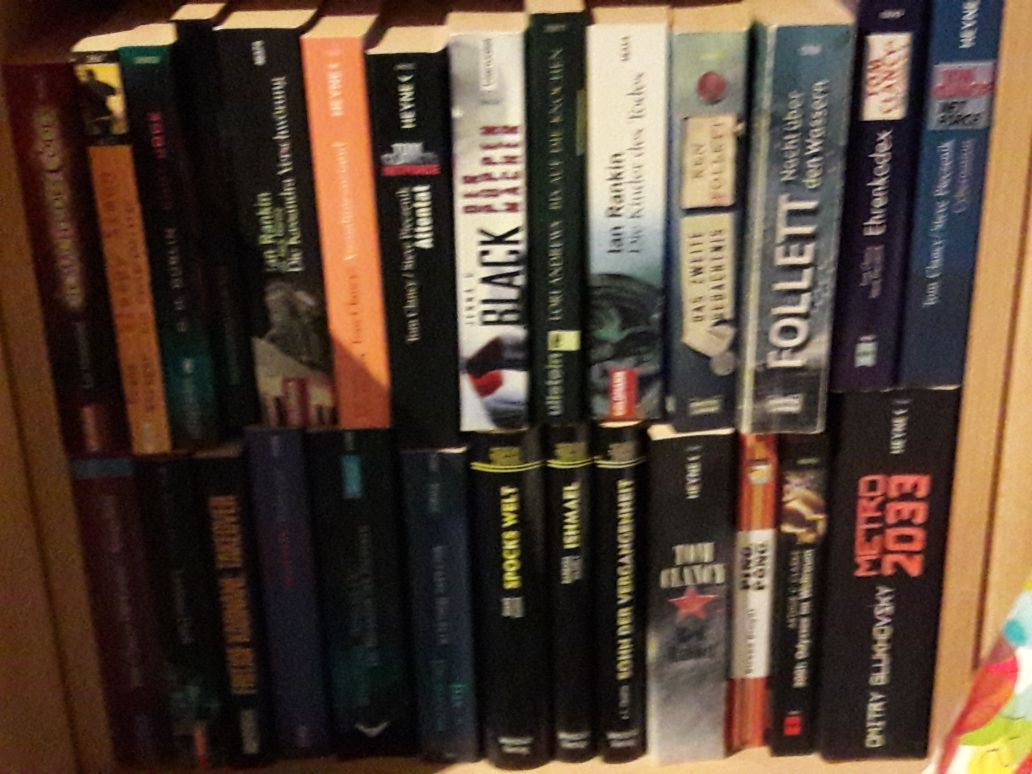
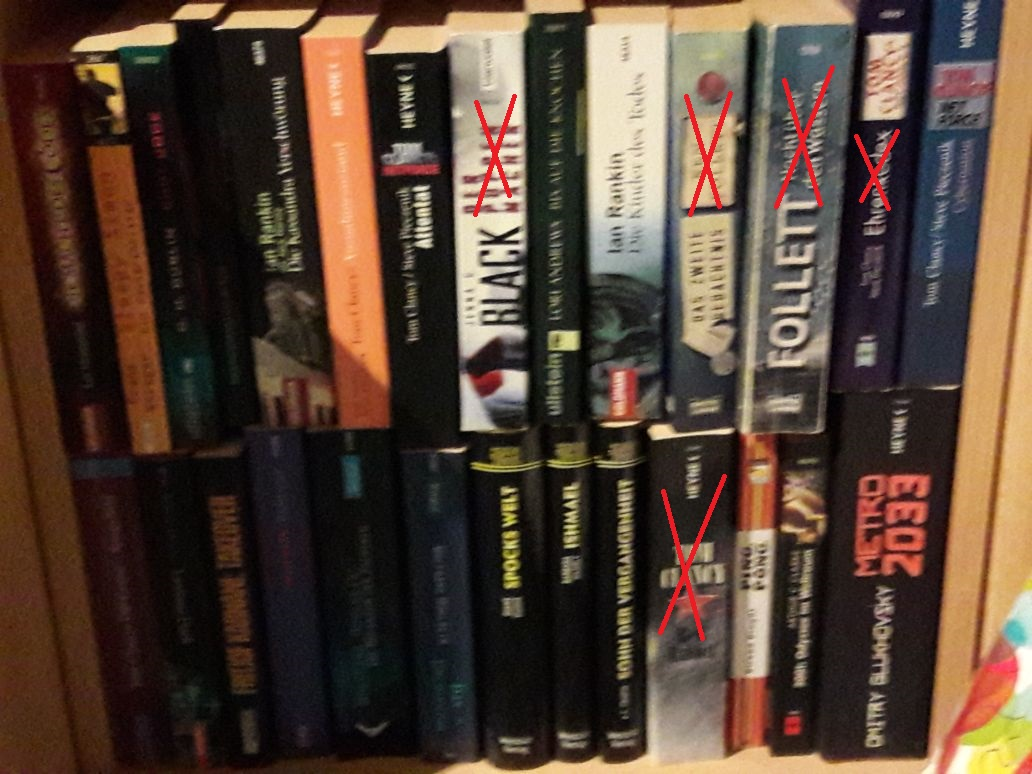
weitere Bücher im export

diff --git a/src/book_import.ts b/src/book_import.ts
@@ -49,16 +49,17 @@ const book_import = [
     { isbn: '9783423210867', authors: [ 'Agustín Sánchez Vidal' ],  title: 'Kryptum',                       pages: 752 },
     { isbn: '9783453811461', authors: [ 'Matt Richtel' ],       title: 'Süchtig',                           pages: 400 },
     { isbn: '9783442371266', authors: [ 'Jeffery Deaver' ],     title: 'Der gehetzte Uhrmacher',            pages: 512 },
-    { isbn: '9783426501276', authors: [ 'M. M. Buckner' ],      title: 'Watermind: Es kann jederzeit passieren',       pages: 464 },
+    { isbn: '9783426501276', authors: [ 'M. M. Buckner' ],      title: 'Watermind: Es kann jederzeit passieren',    pages: 464 },
     { isbn: '9783499255489', authors: [ 'P. J. Tracy' ],        title: 'Memento',                           pages: 320 },
     { isbn: '9783404156566', authors: [ 'Peter Millar' ],       title: 'Die schwarze Madonna',              pages: 460 },
-    { isbn: '', authors: [ '' ],         title: '',       pages:  },
-    { isbn: '', authors: [ '' ],         title: '',       pages:  },
-    { isbn: '', authors: [ '' ],         title: '',       pages:  },
-    { isbn: '', authors: [ '' ],         title: '',       pages:  },
-    { isbn: '', authors: [ '' ],         title: '',       pages:  },
-    
-     
+    { isbn: '9783453171831', authors: [ 'Tom Clancy' ],         title: "Tom Clancy's Net Force 3, Ehrenkodex",      pages: 430 },
+    { isbn: '9783404121687', authors: [ 'Ken Follett' ],        title: 'Nacht über den Wassern',            pages: 536 },
+    { isbn: '9783404149117', authors: [ 'Ken Follett' ],        title: 'Das zweite Gedächtnis',             pages: 448 },
+    { isbn: '9783442366408', authors: [ 'Jenna C. Black' ],     title: 'Der Puppenmacher',                  pages: 416 },
+    { isbn: '9783453436824', authors: [ 'Tom Clancy' ],         title: 'Red Rabbit',                        pages: 736 },
+    { isbn: '978-3426629024', authors: [ 'Scott McBain' ],      title: 'Der Mastercode',                    pages: 560 },
+    { isbn: '978-3404605965', authors: [ 'Stefan Bonner' ],     title: 'Generation Doof',                   pages: 336 },
+    { isbn: '978-3548268354', authors: [ 'José Carlos Somoz' ], title: 'Das Einstein-Projekt',              pages: 576 },
 
     // Vorlage
 //    { isbn: '', authors: [ '' ],       title: '',                        pages:  },
